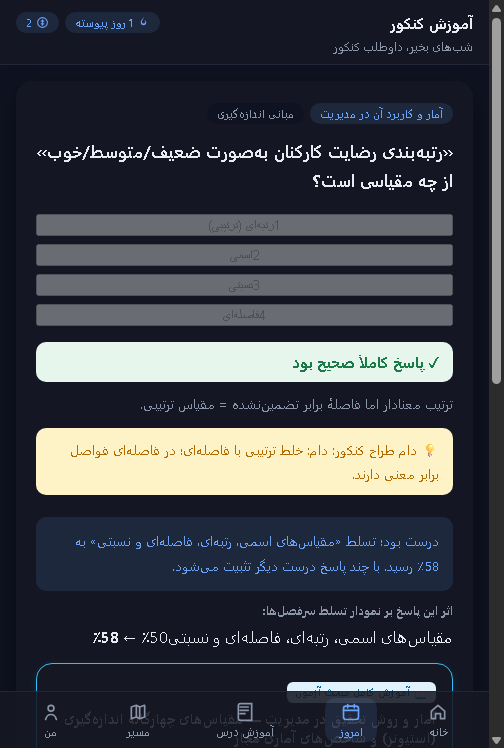
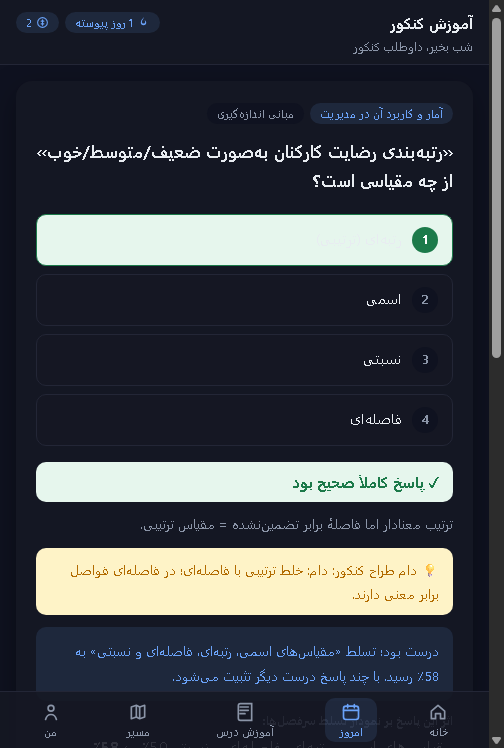
fix(miniapp): repair dead controls, invisible feedback and surface drift
Four UI defects were real and user-visible: the streak-freeze button had a
working handler that was never attached; the full-book back button used an
inline onclick pointing at a closure-local function, so clicking it threw a
ReferenceError; answer options were built with class names the stylesheet does
not define, so correct/wrong highlighting never rendered; and CSS display rules
overrode the [hidden] attribute, leaving empty stat chips and the self-report
box on screen.

Logout no longer silently re-authenticates itself, the "refresh plan" button
now refreshes the queue instead of navigating home, and the home card shows
"not yet assessed" when the API returns null progress rather than inventing
zero.

The dev server no longer prefers a stale React build over the mini app: the
served surface is explicit and logged, and the E2E harness asserts it is
driving the mini app before running. Checks grew to 20 and pass in headless
Chrome and Edge, including listener introspection via CDP and computed-style
assertions; a wiring test now fails if any interactive control in the markup is
unbound.

diff --git a/apps/miniapp/app.js b/apps/miniapp/app.js
@@ -41,7 +41,6 @@
     telegram: null,
     nightMode: false,
     home: null,
-    lastAttemptId: null,
     startTime: null,
   };
 
@@ -86,7 +85,7 @@
 
   function greetingFor() {
     var hour = new Date().getHours();
-    if (hour < 5) return 'شبهای بخیر، ';
+    if (hour < 5) return 'شب بخیر، ';
     if (hour < 12) return 'صبح بخیر، ';
     if (hour < 17) return 'وقتبخیر، ';
     if (hour < 21) return 'عصر بخیر، ';
@@ -270,8 +269,13 @@
       '<div class="mascot-text"><strong>همراه هوشمند شما</strong>' +
       '<p>' + escapeHtml(h.mentorMessage) + '</p></div></section>';
 
-    // کارت هدف: شمارش معکوس + پیشرفت کل مسیر (شروع از ۰٪ برای داوطلب تازه)
-    var overallProgress = typeof h.progress.overall === 'number' ? h.progress.overall : 0;
+    // کارت هدف: شمارش معکوس + پیشرفت کل مسیر
+    // سرور برای «بیشاهد» مقدار null میدهد؛ نمایش ۰٪ ادعای ساختگی است.
+    var hasEvidence = typeof h.progress.overall === 'number';
+    var overallProgress = hasEvidence ? h.progress.overall : 0;
+    var progressLabel = hasEvidence
+      ? overallProgress + '٪'
+      : 'هنوز سنجیده نشده';
     html += '<section class="dash-card goal-card">';
     if (h.stats.daysLeft !== null && h.stats.daysLeft >= 0) {
       html +=
@@ -280,8 +284,8 @@
     }
     html +=
       '<div class="goal-title">گرایشهای فعال: ' + escapeHtml(trackTitle) + '</div>' +
-      '<div class="labels"><span>پیشرفت تسلط سرفصلها</span><span>' + overallProgress + '٪</span></div>' +
-      '<div class="bar"><div class="fill" style="width:' + overallProgress + '%"></div></div>' +
+      '<div class="labels"><span>پیشرفت تسلط سرفصلها</span><span>' + progressLabel + '</span></div>' +
+      '<div class="bar"><div class="fill" style="width:' + (hasEvidence ? overallProgress : 0) + '%"></div></div>' +
       '</section>';
 
     // کارت کوییز امروز
@@ -355,8 +359,13 @@
         var doneBtn = el(state.nightMode ? 'btn-night-done' : 'btn-queue-done');
         if (doneBtn) {
           doneBtn.onclick = function () {
-            state.nightMode = false;
-            showTab('home');
+            if (state.nightMode) {
+              state.nightMode = false;
+              showTab('home');
+              return;
+            }
+            // برچسب «تازهسازی برنامه» باید برنامه را تازه کند، نه به خانه برگردد
+            loadQueue();
           };
         }
       }
@@ -368,7 +377,6 @@
 
     var question = item.question;
     var card = item.card;
-    state.lastAttemptId = item.attemptId || null;
     state.startTime = Date.now();
 
     var qText = question ? question.text : (card.trapNote || 'مرور این مفهوم در برنامه است.');
@@ -416,8 +424,8 @@
 
     options.forEach(function (optText, idx) {
       var btn = document.createElement('button');
-      btn.className = 'option-btn';
-      btn.innerHTML = '<span class="opt-num">' + (idx + 1) + '</span><span class="opt-text">' + escapeHtml(optText) + '</span>';
+      btn.className = 'option';
+      btn.innerHTML = '<span class="key">' + (idx + 1) + '</span><span class="text">' + escapeHtml(optText) + '</span>';
       btn.onclick = function () {
         submitAnswer(item, idx);
       };
@@ -444,7 +452,7 @@
     };
 
     // غیرفعال کردن گزینهها حین ارسال
-    var optionBtns = document.querySelectorAll('.option-btn');
+    var optionBtns = document.querySelectorAll('.option');
     optionBtns.forEach(function (b) { b.disabled = true; });
 
     API.post('/api/answers', body).then(function (res) {
@@ -468,7 +476,7 @@
     var lesson = res.lesson;
 
     // استایل گزینهها
-    var optionBtns = document.querySelectorAll('.option-btn');
+    var optionBtns = document.querySelectorAll('.option');
     if (optionBtns[correctOption]) optionBtns[correctOption].classList.add('correct');
     if (!wasCorrect && optionBtns[selectedIdx]) optionBtns[selectedIdx].classList.add('wrong');
 
@@ -755,7 +763,7 @@
     if (!container) return;
     var course = cachedLessons ? cachedLessons.find(function(c){ return c.courseId === courseId; }) : null;
     if (!course) { container.innerHTML = '<div class="empty-state"><p>کتاب یافت نشد.</p></div>'; return; }
-    var html = '<div style="padding:8px 0;"><button onclick="loadLessons()" class="btn ghost small">← بازگشت به لیست کتابها</button></div>';
+    var html = '<div style="padding:8px 0;"><button id="btn-book-back" class="btn ghost small">← بازگشت به لیست کتابها</button></div>';
     html += '<h2 style="font-size:18px;font-weight:800;color:var(--ink);margin:8px 0 14px;border-right:4px solid var(--primary);padding-right:10px;">📘 ' + escapeHtml(course.courseTitle) + '</h2>';
     if (course.description) html += '<p style="font-size:13px;color:var(--ink-soft);line-height:1.7;margin-bottom:14px;">' + escapeHtml(course.description) + '</p>';
     (course.topics || []).forEach(function(t) {
@@ -772,6 +780,14 @@
       html += '</div>';
     });
     container.innerHTML = html;
+    // دکمهٔ بازگشت با listener واقعی (loadLessons در scope همین IIFE است و
+    // مثل قبل داخل onclick تزریق نمیشود)
+    var backBtn = el('btn-book-back');
+    if (backBtn) {
+      backBtn.addEventListener('click', function () {
+        loadLessons();
+      });
+    }
     window.scrollTo(0,0);
   };
 
@@ -910,10 +926,32 @@
   if (btnLogout) {
     btnLogout.addEventListener('click', function () {
       localStorage.removeItem('session_token');
+      state.home = null;
       showView('view-login');
+      // هویت این مینیاپ دستگاه-محور است؛ با حذف توکن و فراخوانی مجدد
+      // autoAuthenticate عملاً «ورود» فوری انجام میشد و دکمه خروج بیاثر
+      // بهنظر میرسید. حالا کاربر صریحاً باید دوباره وارد شود.
+      var spinner = document.querySelector('#auth-status-container .auth-spinner');
+      if (spinner) spinner.style.display = 'none';
+      var statusText = el('auth-status-text');
+      if (statusText) statusText.textContent = 'از جلسه خارج شدید. برای ادامه «ورود دوباره» را بزنید.';
+      var relogin = el('btn-relogin');
+      if (relogin) relogin.hidden = false;
+    });
+  }
+
+  var btnRelogin = el('btn-relogin');
+  if (btnRelogin) {
+    btnRelogin.addEventListener('click', function () {
+      btnRelogin.hidden = true;
+      var spinner = document.querySelector('#auth-status-container .auth-spinner');
+      if (spinner) spinner.style.display = '';
       autoAuthenticate();
     });
   }
+
+  var btnFreeze = el('btn-freeze-streak');
+  if (btnFreeze) btnFreeze.addEventListener('click', freezeStreak);
 
   function escapeHtml(s) {
     return String(s || '').replace(/[&<>"']/g, function (c) {

diff --git a/src/tests/miniappWiring.test.ts b/src/tests/miniappWiring.test.ts
@@ -1,0 +1,63 @@
+import { readFileSync } from 'node:fs';
+import { join } from 'node:path';
+import { describe, expect, it } from 'vitest';
+
+/**
+ * R-043 — هیچ کنترل تعاملی مینیاپ بیعملکرد نماند.
+ * نقص واقعی که این تست را ساخت: دکمهٔ «قفل روز پیوسته» در HTML بود، تابع
+ * freezeStreak هم نوشته شده بود، ولی هیچوقت به دکمه وصل نشد — کاربر کلیک
+ * میکرد و هیچ اتفاقی نمیافتاد. این تست همان طبقهٔ نقص را میگیرد.
+ */
+const root = process.cwd();
+const html = readFileSync(join(root, 'apps/miniapp/index.html'), 'utf8');
+const js = readFileSync(join(root, 'apps/miniapp/app.js'), 'utf8');
+
+function idsOf(tagPattern: RegExp): string[] {
+  const found = new Set<string>();
+  for (const match of html.matchAll(tagPattern)) {
+    const id = /id="([^"]+)"/.exec(match[0])?.[1];
+    if (id) found.add(id);
+  }
+  return [...found].sort();
+}
+
+const interactiveIds = [
+  ...idsOf(/<button\b[^>]*>/g),
+  ...idsOf(/<input\b[^>]*>/g),
+  ...idsOf(/<select\b[^>]*>/g),
+];
+
+describe('R-043 — سیمکشی کنترلهای مینیاپ', () => {
+  it('هر کنترل تعاملی در index.html در app.js معرفی (و وصل) شده است', () => {
+    expect(interactiveIds.length).toBeGreaterThan(0);
+    const unbound = interactiveIds.filter((id) => !js.includes(`'${id}'`));
+    expect(unbound, `کنترلهای بیسیمکشی: ${unbound.join(', ')}`).toEqual([]);
+  });
+
+  it('هیچ هندلر درونخطی پویا با داده ساخته نمیشود (sink XSS)', () => {
+    const inline = [...js.matchAll(/on(?:click|error|load|input|change)="([^"]*)"/g)].map((m) => m[1]!);
+    // هندلر درونخطی فقط وقتی مجاز است که کاملاً ثابت باشد (بدون رشتهسازی با داده)
+    for (const handler of inline) {
+      expect(handler, `هندلر درونخطی پویا: ${handler}`).not.toMatch(/'\s*\+/);
+      expect(handler, `هندلر درونخطی با کوئریاسترینگ: ${handler}`).not.toMatch(/\\'/);
+    }
+  });
+
+  it('کلاسهای گزینهٔ پاسخ با CSS همنام هستند (درگوشی نبودن رنگها)', () => {
+    const css = readFileSync(join(root, 'apps/miniapp/styles.css'), 'utf8');
+    // JS کلاسهایی میسازد که باید در CSS تعریف شده باشند، وگرنه تأیید/رد گزینه دیده نمیشود
+    for (const cls of ['option', 'key', 'correct', 'wrong']) {
+      expect(css, `کلاس .${cls} در CSS وجود ندارد`).toContain(`.${cls}`);
+    }
+    expect(js).not.toContain("className = 'option-btn'");
+  });
+
+  it('قاعدهٔ [hidden] با display های CSS پوشانده نمیشود', () => {
+    const css = readFileSync(join(root, 'apps/miniapp/styles.css'), 'utf8');
+    for (const sel of ['.stat-chip', '.self-report-box']) {
+      const block = new RegExp(`${sel}\\s*\\{[^}]*display:`).test(css);
+      const guard = new RegExp(`${sel}\\[hidden\\][^{]*\\{[^}]*display:\\s*none`).test(css);
+      if (block) expect(guard, `${sel} display دارد ولی [hidden] را ندارد`).toBe(true);
+    }
+  });
+});

diff --git a/apps/miniapp/index.html b/apps/miniapp/index.html
@@ -26,6 +26,7 @@
       <div id="auth-status-container" style="display: flex; flex-direction: column; align-items: center; gap: 14px; margin: 24px 0 16px;">
         <div class="auth-spinner" style="width: 38px; height: 38px; border: 3.5px solid var(--line); border-top-color: var(--primary); border-radius: 50%; animation: spin 0.8s linear infinite;"></div>
         <p id="auth-status-text" style="font-size: 13px; color: var(--ink-soft); text-align: center; line-height: 1.6;">در حال ورود و بارگذاری پروفایل اختصاصی شما...</p>
+        <button id="btn-relogin" class="btn primary" hidden>ورود دوباره</button>
       </div>
 
       <a id="btn-open-telegram" href="https://t.me/AmozeshKonkoorbot" class="btn ghost" style="display: block; text-decoration: none; text-align: center; margin-top: 10px; font-size: 12.5px;">

diff --git a/apps/miniapp/styles.css b/apps/miniapp/styles.css
@@ -204,6 +204,11 @@ h2 { font-size: 17px; line-height: 1.7; margin: 14px 0 18px; text-align: right; 
 .option.wrong { border-color: var(--bad); background: var(--bad-soft); }
 .option.wrong .key { background: var(--bad); color: #fff; }
 
+/* قاعدهٔ display روی مقدار UA برای [hidden] را میپوشاند (نقص پیشین:
+   چیپهای خالی و باکس خوداظهاری با وجود hidden دیده میشدند) */
+.stat-chip[hidden],
+.self-report-box[hidden] { display: none !important; }
+
 /* بازخورد */
 .feedback-head {
   font-size: 15px;
